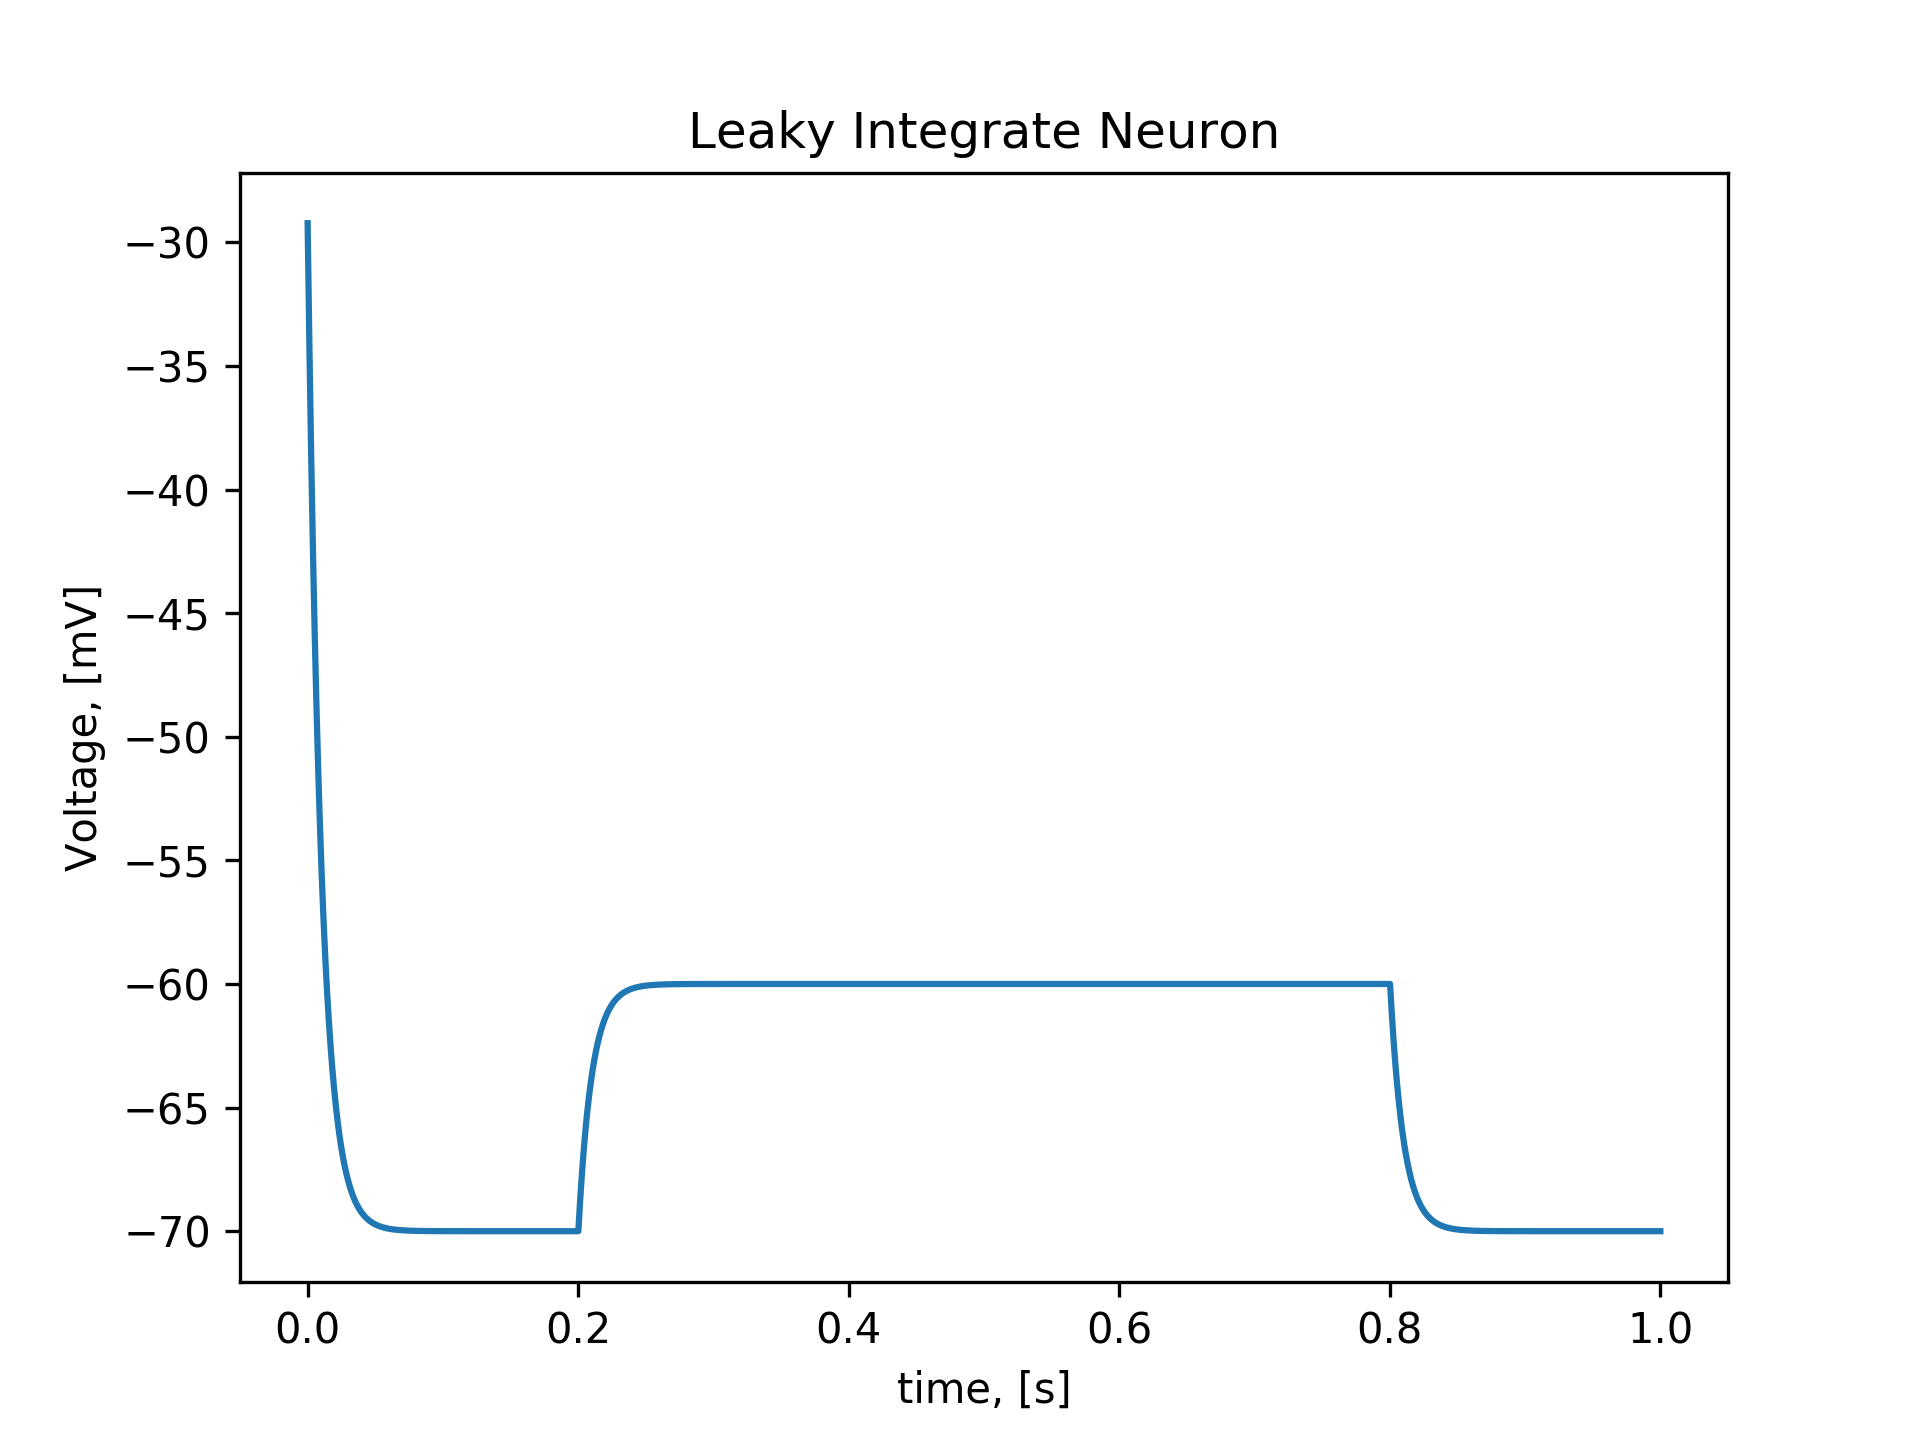
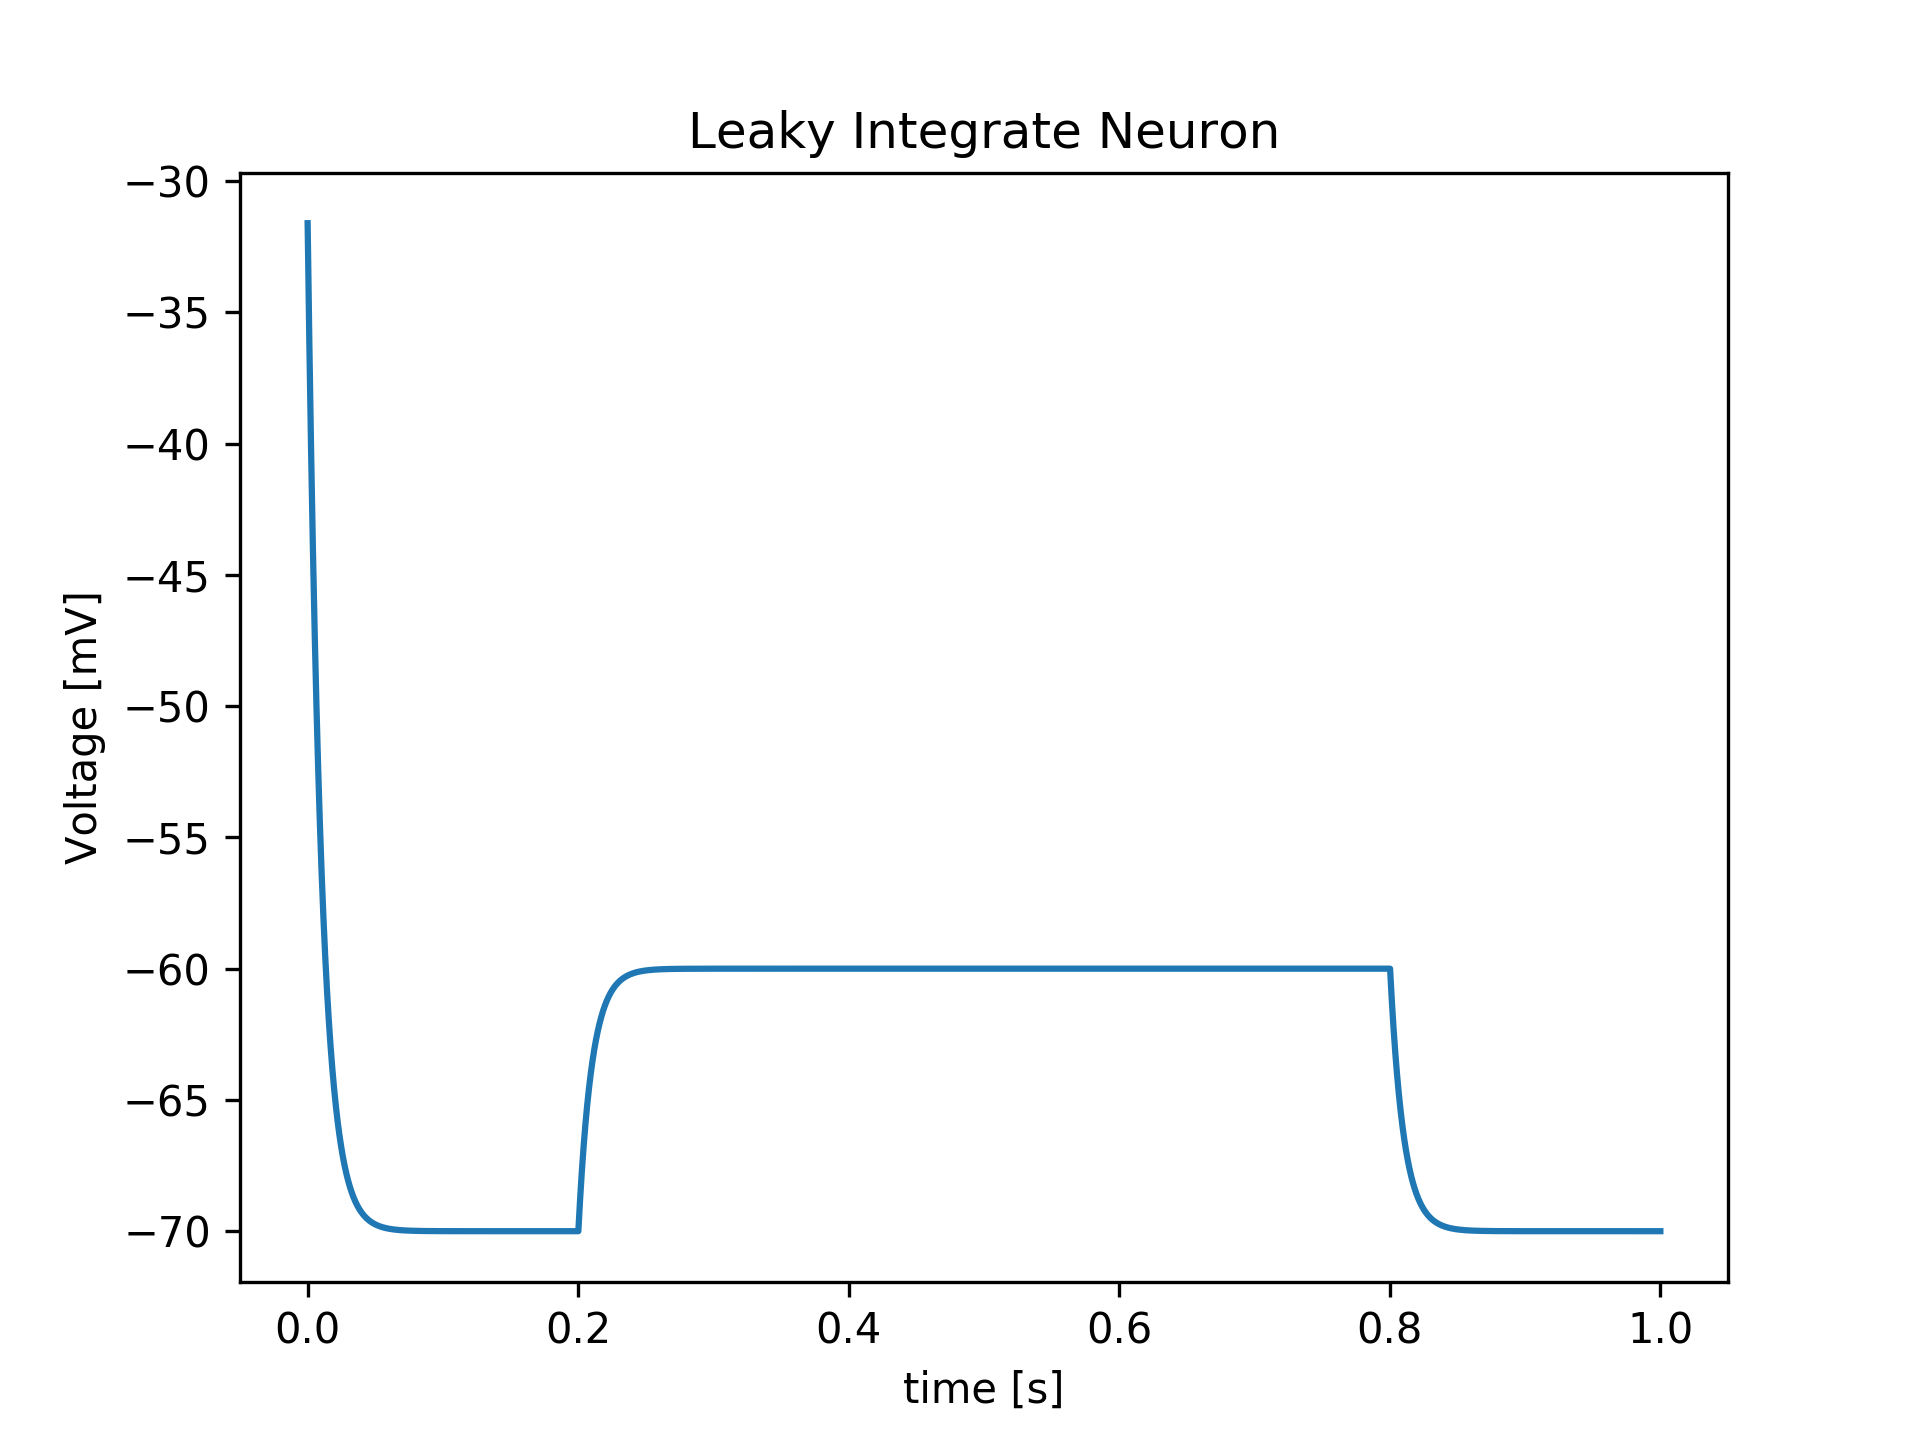
cleaning and adding results

diff --git a/Synapse.py b/Synapse.py
@@ -165,3 +165,18 @@ if __name__ == '__main__':
     man.spawn()
     man.start(steps=args.steps)
     man.wait()
+
+    import h5py
+    import matplotlib
+    matplotlib.use('PS')
+    import matplotlib.pyplot as plt
+
+    f = h5py.File('new_output.h5')
+    t = np.arange(0, args.steps)*dt
+
+    plt.figure()
+    plt.plot(t,list(f['g'].values())[0])
+    plt.xlabel('time [s]')
+    plt.ylabel('Conductance [mS/cm^2]')
+    plt.title('Weighted Synapse')
+    plt.savefig('syn.png',dpi=300)

diff --git a/LIN.py b/LIN.py
@@ -231,7 +231,7 @@ if __name__ == '__main__':
 
     plt.figure()
     plt.plot(t,list(f['V'].values())[0])
-    plt.xlabel('time, [s]')
-    plt.ylabel('Voltage, [mV]')
+    plt.xlabel('time [s]')
+    plt.ylabel('Voltage [mV]')
     plt.title('Leaky Integrate Neuron')
     plt.savefig('lin.png',dpi=300)

diff --git a/DrN.py b/DrN.py
@@ -231,7 +231,7 @@ if __name__ == '__main__':
 
     plt.figure()
     plt.plot(t,list(f['Vd'].values())[0])
-    plt.xlabel('time, [s]')
-    plt.ylabel('Voltage, [mV]')
+    plt.xlabel('time [s]')
+    plt.ylabel('Voltage [mV]')
     plt.title('Driver Neuron')
     plt.savefig('drn.png',dpi=300)
